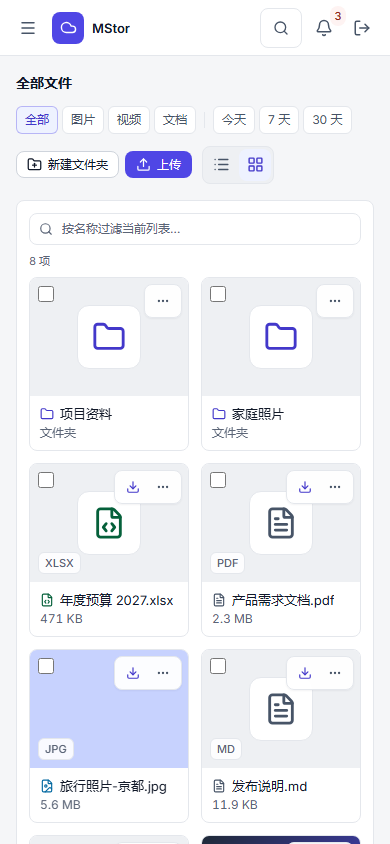
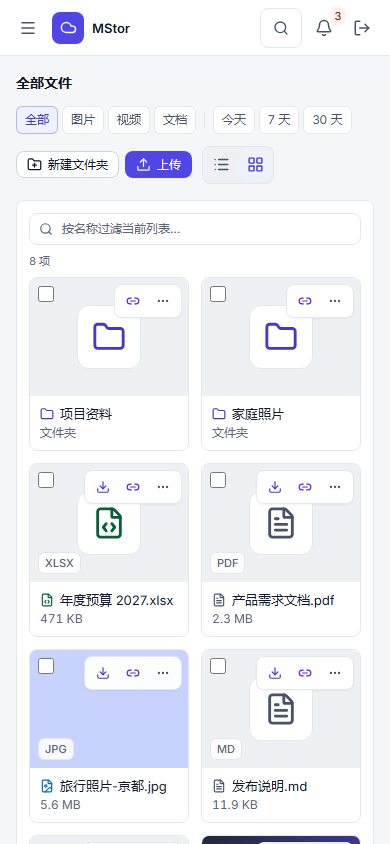
fix(files): 移动端也直显分享入口
- 列表/网格在手机同样展示下载 + 分享 + 更多，关键动作不再按视口折叠
- 3 个 28px 图标仍在 390px 下保住文件名/卡片宽度
- 同步 DESIGN/设计系统/组件审计；客户端 267 例、visual 22/22

diff --git a/client/src/components/FileList.tsx b/client/src/components/FileList.tsx
@@ -381,18 +381,16 @@ export default function FileList({
             {/* 关键动作直接展示：文件「下载 + 分享」，文件夹「分享」；移动端仅下载+更多，把宽度让给文件名 */}
             {download}
             {onShare && (
-              <span className="hidden md:contents">
-                <RowAction
-                  label={`分享 ${n.name}`}
-                  tone="violet"
-                  onClick={(e) => {
-                    e.stopPropagation();
-                    onShare(n);
-                  }}
-                >
-                  <Link2 size={14} aria-hidden />
-                </RowAction>
-              </span>
+              <RowAction
+                label={`分享 ${n.name}`}
+                tone="violet"
+                onClick={(e) => {
+                  e.stopPropagation();
+                  onShare(n);
+                }}
+              >
+                <Link2 size={14} aria-hidden />
+              </RowAction>
             )}
             {/* 次要动作（收藏/重命名/移动/标签/删除…）全部收进更多 */}
             <RowAction

diff --git a/client/src/pages/Browser.tsx b/client/src/pages/Browser.tsx
@@ -222,18 +222,16 @@ export default function Browser() {
           <Download size={14} aria-hidden />
         </a>
       )}
-      <span className="hidden md:contents">
-        <RowAction
-          label={`分享 ${n.name}`}
-          tone="violet"
-          onClick={(e) => {
-            e.stopPropagation();
-            setSharing(n);
-          }}
-        >
-          <Link2 size={14} aria-hidden />
-        </RowAction>
-      </span>
+      <RowAction
+        label={`分享 ${n.name}`}
+        tone="violet"
+        onClick={(e) => {
+          e.stopPropagation();
+          setSharing(n);
+        }}
+      >
+        <Link2 size={14} aria-hidden />
+      </RowAction>
       <RowAction
         label={`更多操作 ${n.name}`}
         onClick={(e) => {

diff --git a/DESIGN.md b/DESIGN.md
@@ -66,7 +66,7 @@ Button：高度 32 / 36，圆角 8，1px 边；hover 只改背景色，不位移
 Card：1px 发丝边 + 圆角 8；内容卡片无投影；只有浮层使用 lift。
 Input：高度 36，1px 边，焦点时 border 变 accent，不加外发光。
 Selection：黑白高对比，不使用 accent tint。列表选中行 ink 5% tint + 3px ink rail；网格选中卡 ink 边框 + ring；checkbox 使用 accent-ink；表头部分选中显示 indeterminate；Esc 清空选择，不依赖焦点在行上。空白区域可拖拽框选（Shift/Ctrl 追加，鼠标专属）。
-Actions：关键动作直接展示——文件「下载 + 分享」、文件夹「分享」；次要动作折叠进「更多」。桌面列表/网格均如此，移动端只保留「下载 + 更多」以保住文件名宽度。禁止把核心动作只藏在 hover 里。
+Actions：关键动作直接展示——文件「下载 + 分享」、文件夹「分享」；次要动作折叠进「更多」。列表/网格、桌面/移动一致；禁止把核心动作只藏在 hover 里。
 Table：表头 11px 大写弱化色；行高 44；行 hover 只改背景。
 Dialog：桌面居中圆角 12，移动端底部抽屉；遮罩不使用重模糊。
 Command palette：单纵向面板；输入 → 分段筛选 → 结果滚动 → 键盘提示；禁止输入框下再套绝对定位下拉。

diff --git a/docs/component-ux-audit.md b/docs/component-ux-audit.md
@@ -56,14 +56,14 @@
 
 现在：
 
-- **关键动作直接展示**：列表桌面端为「下载 + 分享 + 更多」，文件夹为「分享 + 更多」；移动端保留「下载 + 更多」；
-- 网格卡片桌面端为「下载 + 分享 + 更多」，移动端为「下载 + 更多」；
+- **关键动作直接展示**：列表为「下载 + 分享 + 更多」，文件夹为「分享 + 更多」；
+- 网格卡片同为「下载 + 分享 + 更多」，文件夹为「分享 + 更多」；
 - **次要动作折叠**：收藏/取消收藏、打开、重命名、移动、复制到、复制链接、标签、删除、详情全部进「更多」菜单；
 - 菜单包含：收藏/取消收藏、打开、下载、分享、重命名、移动、复制到、复制链接、标签、删除、详情；
 - 右键菜单与「更多」共用同一份 useNodeActions，行为不分叉；
 - 表格/卡片的选中态、hover、焦点仍然独立。
 
-评分：**4.7/5**。关键路径一眼可见，危险/低频动作不占主视觉；移动端把分享折叠以保住文件名宽度。
+评分：**4.7/5**。关键路径一眼可见，危险/低频动作不占主视觉；移动端 3 个 28px 图标仍能保住文件名宽度。
 Trade-off：桌面端分享多一个图标；重命名/移动多一次点击。
 
 ## 4. 其他组件

diff --git a/docs/design-system.md b/docs/design-system.md
@@ -22,7 +22,7 @@ v8 借鉴并落地：
 
 ### v8.4 操作入口常显
 
-- 关键动作直接展示：桌面列表/网格为「下载 + 分享 + 更多」，文件夹为「分享 + 更多」；移动端为「下载 + 更多」。
+- 关键动作直接展示：列表/网格均为「下载 + 分享 + 更多」，文件夹为「分享 + 更多」。
 - 次要动作折叠进「更多」：收藏、打开、重命名、移动、复制、复制链接、标签、删除、详情；菜单含下载/分享作为键盘可达兜底。
 - 右键菜单与「更多」共用 useNodeActions，行为不分叉；更多按钮 coarse 指针 44px。
 - 工具条/命令面板/侧栏评分与改进项见 docs/component-ux-audit.md。
